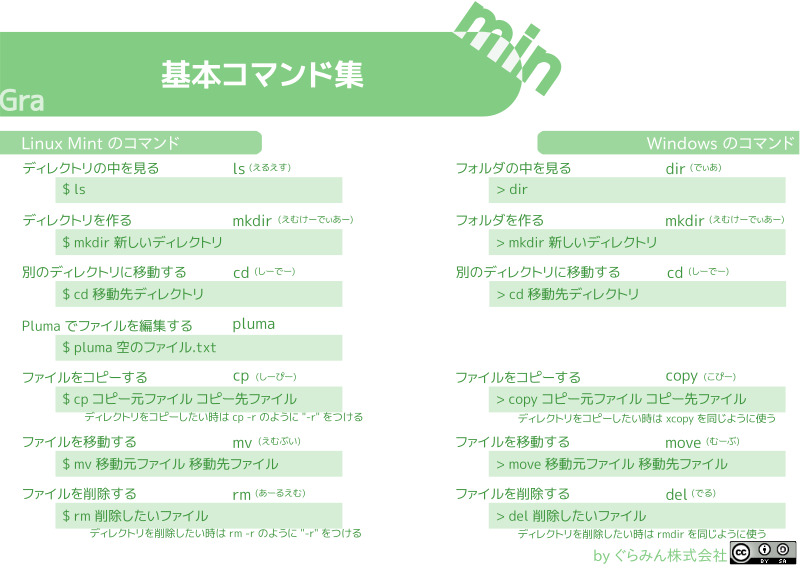
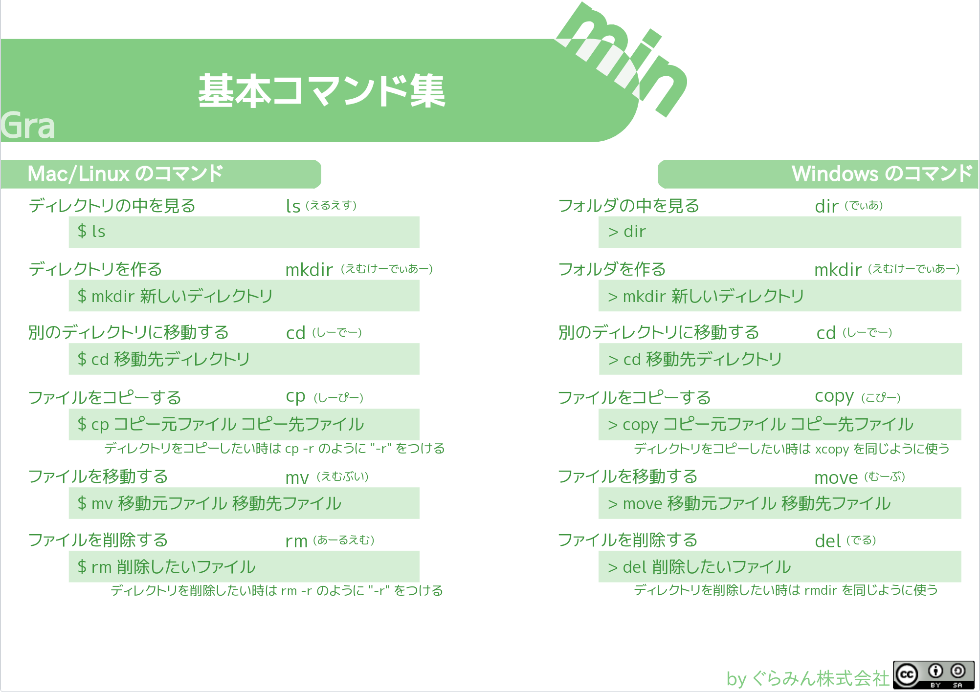
Linux -> Linux/Mac

diff --git a/site/content/portfolio/work7.md b/site/content/portfolio/work7.md
@@ -4,7 +4,7 @@ showonlyimage = false
 
 image = "img/portfolio/基本コマンド集.png"
 date = "2016-11-05T18:25:22+05:30"
-title = "Linux と Windows の基本コマンド集"
+title = "Mac/Linux と Windows の基本コマンド集"
 
 weight = 1
 +++
